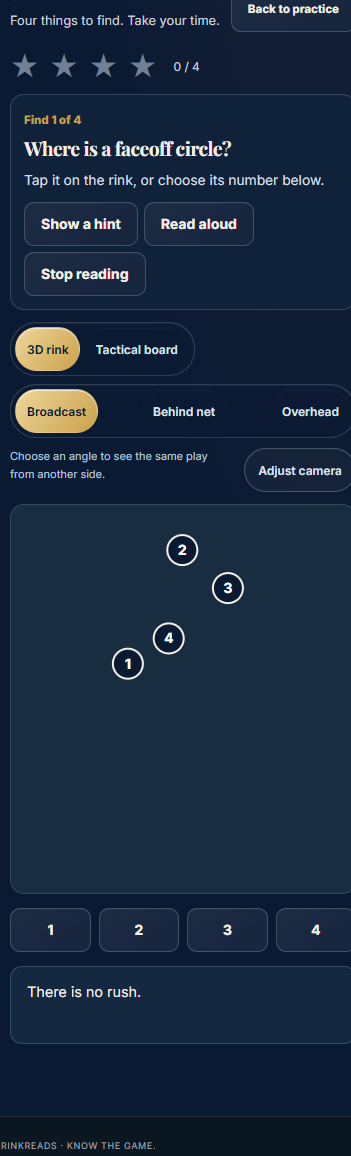
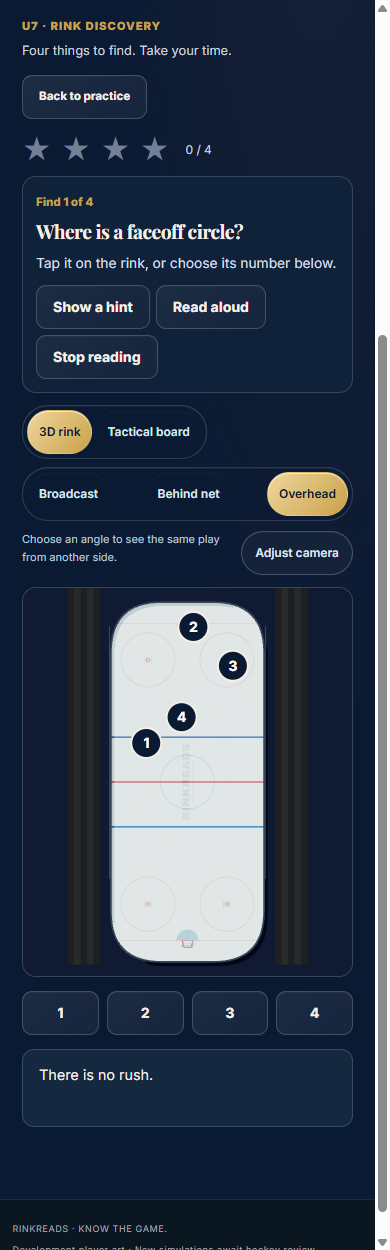
docs(practice): record live SGS checks and refresh rink tour evidence

Changed region(s): [[0.0285, 0.0, 1.0, 1.0], [0.0, 0.9654, 0.8262, 1.0], [0.6553, 0.0, 0.6838, 0.0311]]

diff --git a/docs/one-on-one/morning-review.md b/docs/one-on-one/morning-review.md
@@ -1,4 +1,16 @@
 # RinkReads morning review
+
+## Current release — September 5, 08:01 Edmonton
+
+`86c250c` is live. [Vercel deployment](https://vercel.com/bluechippeoplestrategies-projects/ice-iq/FsJJk7ijaGTkxB7A66Vm4Y4fYKFY) completed successfully. The shared review now includes rotatable 3D guided/coach/SGS scenes, individual player facing and visible sticks, connected puck-state fixes, a 1v1–5v5 positioning draft catalog and the U7 rink tour. Planning: [SGS plan](SGS-PLAN.md). Scope and limits: [SGS visual review](sgs-visual-review.md).
+
+325 practice tests, 18 bank-content, 41 young-view and 8 identity checks pass; the production build passes. At the public HTTPS origin and 390 px, the review loaded all eight images; three new/current scene images matched their committed hashes. The default 1v1 completed three real choices/reasons and restored exact saved JSON after reload. The U7 on-rink circle and blue-line buttons succeeded. Fourteen prior non-SGS local records retained the same combined hash. No page exceptions or horizontal overflow occurred in these checked flows. A fresh screenshot corrects an offscreen WebGL capture artifact in the U7 review image; this does not change the app.
+
+[Open Scenario Lab](https://ice-iq.vercel.app/?arena=sgs#practice-arena) · [Open U7 rink discovery](https://ice-iq.vercel.app/?arena=sgs&sgs=discover#practice-arena) · [Review](https://ice-iq.vercel.app/review/)
+
+The 640 entries are draft configurations of two families; none is newly AI/physics-approved or admitted to the live bank. Remaining work is coach calibration, broader validated families/ages, production character rigs, remaining legacy 3D migration and physical iPad verification. The older 7 a.m. target was superseded by Thomas's instruction to continue; do not infer a new schedule from these historical notes.
+
+## Earlier verification history
 September 5, 2026 · Prepared for 7:00 a.m. Edmonton
 
 **All-scenario visual follow-up is live in `22782f6`, verified at 06:15 Edmonton.** All 41 source illustrations serving 133 image questions have refreshed players, goalies, ice and nets from unchanged authored geometry. Quiz/scenario, coach/curriculum, animated-play and Gym renderers use richer matching art. Read-only enlarged pictures and boards support phone inspection. Two older coordinate bugs are fixed, and Snapshot keeps gray defenders so its gold target stays distinct. **265 practice tests and the production build pass.** All 41 public assets match their committed hashes; live picture/board enlargement, a source answer/full reload, eleven older saved records and 320/390 px review layouts passed. [Scope, deployment and actual browser checks](all-scenario-visuals.md). The following releases were already public before this broader pass.

diff --git a/docs/one-on-one/phone-preview.md b/docs/one-on-one/phone-preview.md
@@ -1,5 +1,17 @@
 # Phone-accessible review
 
+## Current release — September 5, 08:01 Edmonton
+
+`86c250c` is live. [Vercel deployment](https://vercel.com/bluechippeoplestrategies-projects/ice-iq/FsJJk7ijaGTkxB7A66Vm4Y4fYKFY) completed successfully. The shared review now includes rotatable 3D guided/coach/SGS scenes, individual player facing and visible sticks, connected puck-state fixes, a 1v1–5v5 positioning draft catalog and the U7 rink tour. Planning: [SGS plan](SGS-PLAN.md). Scope and limits: [SGS visual review](sgs-visual-review.md).
+
+325 practice tests, 18 bank-content, 41 young-view and 8 identity checks pass; the production build passes. At the public HTTPS origin and 390 px, the review loaded all eight images; three new/current scene images matched their committed hashes. The default 1v1 completed three real choices/reasons and restored exact saved JSON after reload. The U7 on-rink circle and blue-line buttons succeeded. Fourteen prior non-SGS local records retained the same combined hash. No page exceptions or horizontal overflow occurred in these checked flows. A fresh screenshot corrects an offscreen WebGL capture artifact in the U7 review image; this does not change the app.
+
+[Open Scenario Lab](https://ice-iq.vercel.app/?arena=sgs#practice-arena) · [Open U7 rink discovery](https://ice-iq.vercel.app/?arena=sgs&sgs=discover#practice-arena) · [Review](https://ice-iq.vercel.app/review/)
+
+The 640 entries are draft configurations of two families; none is newly AI/physics-approved or admitted to the live bank. Remaining work is coach calibration, broader validated families/ages, production character rigs, remaining legacy 3D migration and physical iPad verification. The older 7 a.m. target was superseded by Thomas's instruction to continue; do not infer a new schedule from these historical notes.
+
+## Earlier verification history
+
 ## Latest release: all scenario visuals
 
 `22782f6` deployed successfully and was verified at **06:15 Edmonton, September 5**. The public review shows 41 refreshed illustrations and 265 passing practice tests; all images load, with no horizontal overflow at 320 or 390 px. All 41 live source assets match their committed Git-blob SHA-256 hashes. At 390 x 844, read-only board/picture enlargement and keyboard dismissal worked. Answering the original U13 odd-man question produced its existing feedback and 100 practice points; full reload preserved the exact answer JSON and eleven older RinkReads values. Checked flows had no page exceptions or failed requests. [Deployment, detailed scope and screenshots](all-scenario-visuals.md). This remains browser viewport testing, not a physical-device test.

diff --git a/docs/roadmap/TASKS.md b/docs/roadmap/TASKS.md
@@ -1,6 +1,6 @@
 # RinkReads — Task List
 
-**Last updated:** 2026-09-05, 07:59 Edmonton · Revised player poses/sticks and shared 3D scenario views; added the SGS planning draft, 1v1–5v5 positioning prototype and U7 rink tour. 325 practice tests and production build pass; live verification pending; see docs/one-on-one/sgs-visual-review.md. Earlier visual release 22782f6 was rejected as insufficient and is historical evidence only.
+**Last updated:** 2026-09-05, 08:01 Edmonton · Revised player poses/sticks and shared 3D scenario views; added the SGS planning draft, 1v1–5v5 positioning prototype and U7 rink tour. 325 practice tests and production build pass; 86c250c live with exact 1v1 reload, U7 marker checks and fourteen prior records preserved; see docs/one-on-one/sgs-visual-review.md. Earlier visual release 22782f6 was rejected as insufficient and is historical evidence only.
 
 **Scope:** RinkReads **app build + content factory**. Launch/distribution (sending the beta, marketing) and the separate BlueChip business are **out of scope** — parked at the bottom. Priority = position in this list. A new idea that isn't here goes to the **Parking Lot** first, then gets promoted on purpose — that's the scope-creep guard.
 
@@ -54,6 +54,8 @@
 - *(New ideas land here first, then get promoted into NEXT/LATER on purpose.)*
 
 ## Changelog
+
+- **2026-09-05 (SGS live verification)** — Vercel completed `86c250c`; public 390 px checks passed for current image hashes, three 1v1 answers with exact reload, U7 on-rink feature selection and preservation of fourteen prior records. No page exceptions or horizontal overflow. Refreshed the U7 screenshot after detecting an offscreen capture artifact; application behavior is unchanged.
 
 - **2026-09-05 (SGS and player presentation)** — Replaced same-facing/no-stick curriculum markers with authored poses and visible equipment; added shared rotatable 3D views, camera-neutral curriculum wording, exact loose-puck adapters and both-event connected replay. Built a separate 640-configuration positioning review catalog from 1v1–5v5 and four-feature U7 rink tour. Browser checks cover actual drag, 3v3 continuation/save/export/reload, 5v5 context-loss fallback and U7 native markers. No draft admission or new AI/physics approval. Planning and measured evidence: `docs/one-on-one/SGS-PLAN.md`, `sgs-benchmark.md`, `sgs-visual-review.md`.
 

diff --git a/docs/one-on-one/overnight-checkpoint.md b/docs/one-on-one/overnight-checkpoint.md
@@ -1,5 +1,17 @@
 # RinkReads overnight checkpoint
 
+## Current release — September 5, 08:01 Edmonton
+
+`86c250c` is live. [Vercel deployment](https://vercel.com/bluechippeoplestrategies-projects/ice-iq/FsJJk7ijaGTkxB7A66Vm4Y4fYKFY) completed successfully. The shared review now includes rotatable 3D guided/coach/SGS scenes, individual player facing and visible sticks, connected puck-state fixes, a 1v1–5v5 positioning draft catalog and the U7 rink tour. Planning: [SGS plan](SGS-PLAN.md). Scope and limits: [SGS visual review](sgs-visual-review.md).
+
+325 practice tests, 18 bank-content, 41 young-view and 8 identity checks pass; the production build passes. At the public HTTPS origin and 390 px, the review loaded all eight images; three new/current scene images matched their committed hashes. The default 1v1 completed three real choices/reasons and restored exact saved JSON after reload. The U7 on-rink circle and blue-line buttons succeeded. Fourteen prior non-SGS local records retained the same combined hash. No page exceptions or horizontal overflow occurred in these checked flows. A fresh screenshot corrects an offscreen WebGL capture artifact in the U7 review image; this does not change the app.
+
+[Open Scenario Lab](https://ice-iq.vercel.app/?arena=sgs#practice-arena) · [Open U7 rink discovery](https://ice-iq.vercel.app/?arena=sgs&sgs=discover#practice-arena) · [Review](https://ice-iq.vercel.app/review/)
+
+The 640 entries are draft configurations of two families; none is newly AI/physics-approved or admitted to the live bank. Remaining work is coach calibration, broader validated families/ages, production character rigs, remaining legacy 3D migration and physical iPad verification. The older 7 a.m. target was superseded by Thomas's instruction to continue; do not infer a new schedule from these historical notes.
+
+## Earlier verification history
+
 Updated September 5, 2026, 06:15 Edmonton. Target: **7:00 a.m. Edmonton today (13:00 UTC)**. The existing `rinkreads-overnight-build` heartbeat is active every 30 minutes until the deadline; do not duplicate it.
 
 ## Continue from here

diff --git a/docs/one-on-one/verification.md b/docs/one-on-one/verification.md
@@ -1,4 +1,16 @@
 # Practice framework verification
+
+## Current release — September 5, 08:01 Edmonton
+
+`86c250c` is live. [Vercel deployment](https://vercel.com/bluechippeoplestrategies-projects/ice-iq/FsJJk7ijaGTkxB7A66Vm4Y4fYKFY) completed successfully. The shared review now includes rotatable 3D guided/coach/SGS scenes, individual player facing and visible sticks, connected puck-state fixes, a 1v1–5v5 positioning draft catalog and the U7 rink tour. Planning: [SGS plan](SGS-PLAN.md). Scope and limits: [SGS visual review](sgs-visual-review.md).
+
+325 practice tests, 18 bank-content, 41 young-view and 8 identity checks pass; the production build passes. At the public HTTPS origin and 390 px, the review loaded all eight images; three new/current scene images matched their committed hashes. The default 1v1 completed three real choices/reasons and restored exact saved JSON after reload. The U7 on-rink circle and blue-line buttons succeeded. Fourteen prior non-SGS local records retained the same combined hash. No page exceptions or horizontal overflow occurred in these checked flows. A fresh screenshot corrects an offscreen WebGL capture artifact in the U7 review image; this does not change the app.
+
+[Open Scenario Lab](https://ice-iq.vercel.app/?arena=sgs#practice-arena) · [Open U7 rink discovery](https://ice-iq.vercel.app/?arena=sgs&sgs=discover#practice-arena) · [Review](https://ice-iq.vercel.app/review/)
+
+The 640 entries are draft configurations of two families; none is newly AI/physics-approved or admitted to the live bank. Remaining work is coach calibration, broader validated families/ages, production character rigs, remaining legacy 3D migration and physical iPad verification. The older 7 a.m. target was superseded by Thomas's instruction to continue; do not infer a new schedule from these historical notes.
+
+## Earlier verification history
 September 5, 2026 · Shared phone preview and local production-build checks
 
 ## Automated checks
